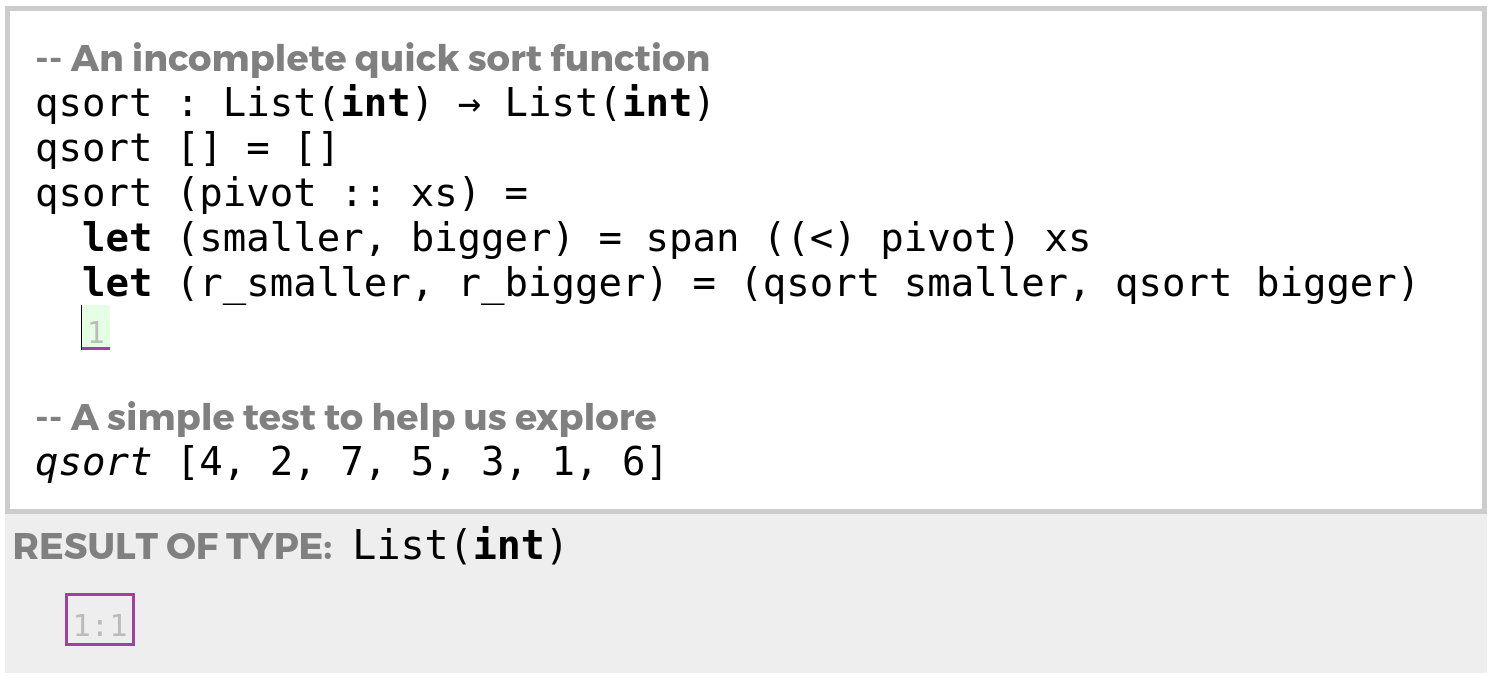
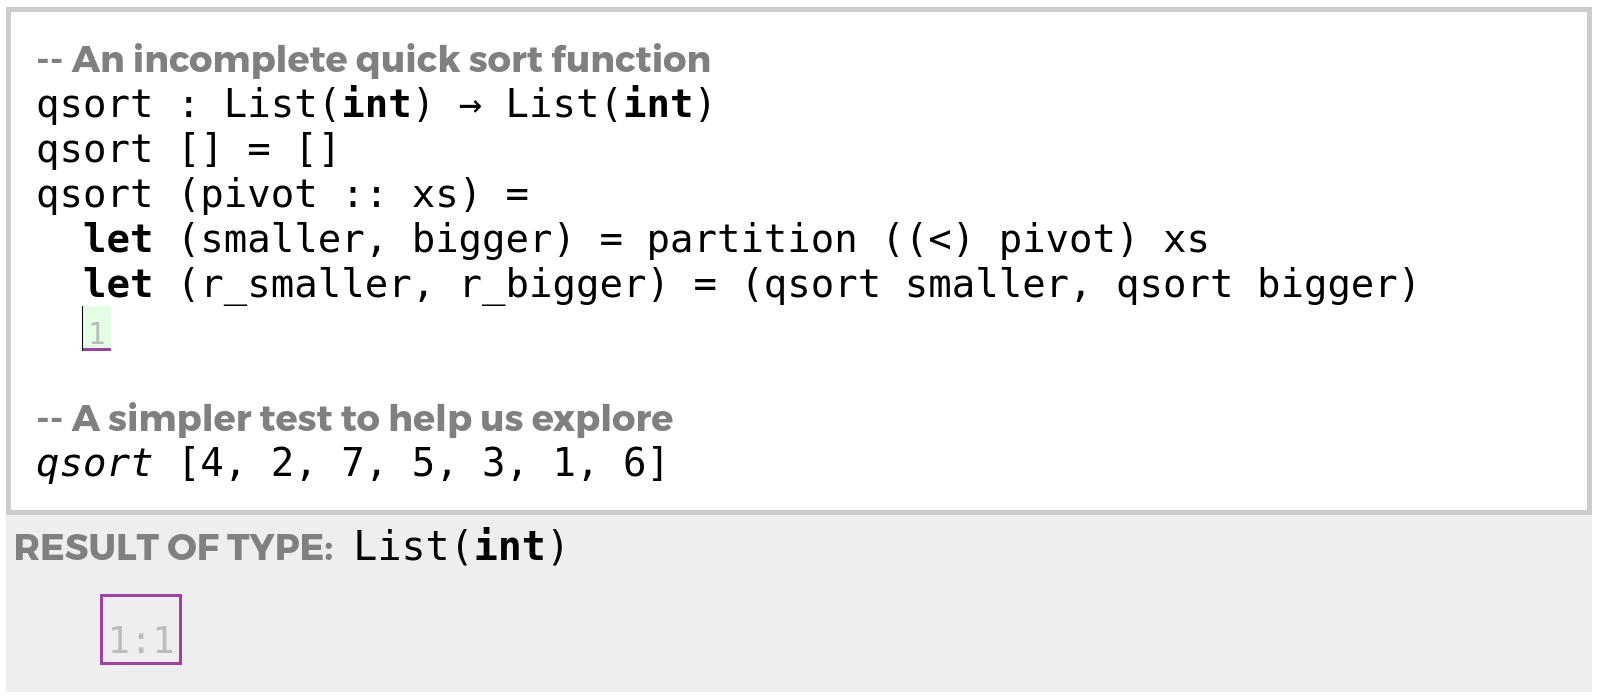
changed span to partition and added mockup html files

Changed region(s): [[0.0, 0.0619, 0.9551, 0.5265], [0.0, 0.0, 1.0, 0.9602]]

diff --git a/mockups/hazelnut-live-example-1.html b/mockups/hazelnut-live-example-1.html
@@ -1,0 +1,26 @@
+<html lang="en"><head>
+    <meta charset="utf-8">
+    <meta http-equiv="X-UA-Compatible" content="IE=edge">
+    <meta name="viewport" content="width=device-width, initial-scale=1, shrink-to-fit=no">
+    <!-- The above 3 meta tags *must* come first in the head; any other head content must come *after* these tags -->
+
+    <title>Hazel</title>
+
+    <link rel="stylesheet" href="file:///home/cyrus/Drive/projects/hazelnut/hazel/src/www/style.css">
+  </head>
+
+  <body spellcheck="false">
+    <div class="container" id="container"><div id="root"><div class="top-bar"><span class="logo-text">Hazel</span></div><div class="main-area"><div class="sidebar leftbar"><div class="panel action-panel"><div class="titlebar">Edit Actions</div><div class="sub-panel sub-panel-default"><div class="sub-panel-title">General</div><div class="sub-panel-body"><div class="action-panel-entry action-enabled"><div class="action-label">parenthesize</div><div class="keyboard-shortcut">(</div></div><div class="action-panel-entry action-enabled"><div class="action-label">backspace</div><div class="keyboard-shortcut">Backspace</div></div><div class="action-panel-entry action-disabled"><div class="action-label">delete</div><div class="keyboard-shortcut">Delete</div></div></div></div><div class="sub-panel sub-panel-default"><div class="sub-panel-title">Expression Construction</div><div class="sub-panel-body"><div class="action-panel-entry action-enabled"><div class="action-label action-label-with-input"><div class="action-label-text"><div><span><span class="code kw">let</span></span></div></div><div class="action-input"><input id="let_input" class="form-control" placeholder="enter var"></div><div class="action-validity-indicator"><div class="invalid-mark">✗</div></div></div><div class="keyboard-shortcut">=</div></div><div class="action-panel-entry action-enabled"><div class="action-label action-label-with-input"><div class="action-label-text">var</div><div class="action-input"><input id="var_input" class="form-control" placeholder="enter var"></div><div class="action-validity-indicator"><div class="invalid-mark">✗</div></div></div><div class="keyboard-shortcut">v</div></div><div class="action-panel-entry action-enabled"><div class="action-label action-label-with-input"><div class="action-label-text"><span><span class="code kw">λ</span></span></div><div class="action-input"><input id="lam_input" class="form-control" placeholder="enter var"></div><div class="action-validity-indicator"><div class="invalid-mark">✗</div></div></div><div class="keyboard-shortcut">\</div></div><div class="action-panel-entry action-enabled"><div class="action-label">insert application operator</div><div class="keyboard-shortcut">Space</div></div><div class="action-panel-entry action-enabled"><div class="action-label action-label-with-input"><div class="action-label-text">number</div><div class="action-input"><input id="lit_input" class="form-control" placeholder="enter number"></div><div class="action-validity-indicator"><div class="invalid-mark">✗</div></div></div><div class="keyboard-shortcut">#</div></div><div class="action-panel-entry action-enabled"><div class="action-label"><span>insert <span class="code op">+</span> operator</span></div><div class="keyboard-shortcut">+</div></div><div class="action-panel-entry action-enabled"><div class="action-label"><span>insert <span class="code op">*</span> operator</span></div><div class="keyboard-shortcut">*</div></div><div class="action-panel-entry action-enabled"><div class="action-label">left injection</div><div class="keyboard-shortcut">L</div></div><div class="action-panel-entry action-enabled"><div class="action-label">right injection</div><div class="keyboard-shortcut">R</div></div><div class="action-panel-entry action-enabled"><div class="action-label action-label-with-two-inputs"><div class="action-label-text"><span><span class="code kw">case</span></span></div><div class="action-input action-input-1"><input id="case_input_1" class="form-control" placeholder="enter var1"></div><div class="action-input action-input-2"><input id="case_input_2" class="form-control" placeholder="enter var2"></div><div class="action-validity-indicator"><div class="invalid-mark">✗</div></div></div><div class="keyboard-shortcut">c</div></div><div class="action-panel-entry action-enabled"><div class="action-label">type ascription</div><div class="keyboard-shortcut">:</div></div></div></div><div class="sub-panel sub-panel-default"><div class="sub-panel-title">Type Construction</div><div class="sub-panel-body"><div class="action-panel-entry action-disabled"><div class="action-label"><span><span class="code kw">num</span> type</span></div><div class="keyboard-shortcut">n</div></div><div class="action-panel-entry action-disabled"><div class="action-label"><span>insert <span class="code op">→</span> type operator</span></div><div class="keyboard-shortcut">&gt;</div></div><div class="action-panel-entry action-disabled"><div class="action-label"><span>insert <span class="code op">|</span> type operator</span></div><div class="keyboard-shortcut">|</div></div></div></div></div></div><div class="page-area"><div class="page"><div>Grading notebook for CS 150</div><div id="pp_view" class="ModelExp"><div contenteditable="true"><div><span class="SDoc"><span class="Let"><span class="SText kw"><span style="color: rgb(128, 128, 128);font-family: Montserrat, sans-serif;font-size: 14.6667px;text-transform: none;">-- Define a type for student records</span></span></span></span></div><span class="SDoc"><span id="viewpath_" class="Let"><span class="SText kw">type</span><span class="SText space"> </span><span class="SText var" style="font-style: normal;">Student</span><span class="SText space"> </span><span class="SText op">=</span><span class="SText space">&nbsp;{ <u>name</u>:&nbsp;</span><span id="viewpath__0" class="Asc"><span class="SText space"><span id="viewpath__0" class="Asc"><span id="viewpath__0_1" class="Num"><span class="SText kw">string</span></span></span>,&nbsp;<span class="SText space"><u>hw</u>:&nbsp;</span><span id="viewpath__0" class="Asc"><span class="SText space"><span id="viewpath__0" class="Asc"><span id="viewpath__0_1" class="Num"><span class="SText kw">float</span></span></span>,&nbsp;</span></span><span class="SText space"><u>midterm</u>:&nbsp;</span><span id="viewpath__0" class="Asc"><span class="SText space"><span id="viewpath__0" class="Asc"><span id="viewpath__0_1" class="Num"><span class="SText kw">float</span></span></span>,&nbsp;</span></span><span class="SText space"><u>final</u>:&nbsp;</span><span id="viewpath__0" class="Asc"><span class="SText space"><span id="viewpath__0" class="Asc"><span id="viewpath__0_1" class="Num"><span class="SText kw">float&nbsp;</span></span></span>}</span></span></span></span><br><span class="SIndentation"></span><span id="viewpath__1" class="Let"><span class="SText kw"><br><br></span></span></span></span><div><span class="SDoc"><span class="Let"><span class="Let"><span class="SText kw"><span style="color: rgb(128, 128, 128);font-family: Montserrat, sans-serif;font-size: 14.6667px;text-transform: none;">-- Create a list of student records</span></span></span></span></span></div><div><span class="SDoc"><span class="Let"><span class="Let"><span class="SText var">students</span><span class="SText space">&nbsp;</span><span class="SText op"><span class="SText op" style="font-size: 15.6px;">:</span><span class="SText space" style="font-size: 15.6px;">&nbsp;</span><span id="viewpath__1_0_1" class="Num" style="font-size: 15.6px;"><span class="SText kw"><span style="font-weight: normal;">List(Student)</span></span></span></span></span></span></span></div><div><span style="font-family: monospace; font-size: 15.6px; font-style: italic;">students</span><font face="monospace"><span style="font-size: 15.6px;"><b>&nbsp;</b>=&nbsp;<br></span></font><div><span class="SDoc"><span class="Let"><span class="Let">&nbsp; [ { <u>name</u>: <b style="
+    color: mediumpurple;
+    font-weight: normal;
+">"Alice"</b>, <u>hw</u>: 88.0, <u>midterm</u>: 89.0, <u>final</u>: 87.0 }</span></span></span></div><div><span class="SDoc"><span class="Let"><span class="Let">&nbsp; ,&nbsp;<span style="font-size: 15.6px;">{&nbsp;</span><u style="font-size: 15.6px;">name</u><span style="font-size: 15.6px;">:&nbsp;</span><span style="font-size: 15.6px; color: mediumpurple;">"Bob"</span><span style="font-size: 15.6px;">,&nbsp;&nbsp;&nbsp;</span><u style="font-size: 15.6px;">hw</u><span style="font-size: 15.6px;">: 76.0,&nbsp;</span><u style="font-size: 15.6px;">midterm</u><span style="font-size: 15.6px;">: 93.0,&nbsp;</span><u style="font-size: 15.6px;">final</u><span style="font-size: 15.6px;">: 95.0 }</span></span></span></span></div><div><span class="SDoc"><span class="Let"><span class="Let">&nbsp; ,&nbsp;<span style="font-size: 15.6px;">{&nbsp;</span><u style="font-size: 15.6px;">name</u><span style="font-size: 15.6px;">:&nbsp;</span><span style="font-size: 15.6px; color: mediumpurple;">"Chris"</span><span style="font-size: 15.6px;">,&nbsp;</span><u style="font-size: 15.6px;">hw</u><span style="font-size: 15.6px;">: 93.0,&nbsp;</span><u style="font-size: 15.6px;">midterm</u><span style="font-size: 15.6px;">: 79.0,&nbsp;</span><u style="font-size: 15.6px;">final</u><span style="font-size: 15.6px;">: 84.0 } ]</span></span></span></span></div><div><font face="monospace"><span style="font-size: 15.6px;">qsort : List(<b>int</b>)&nbsp;</span></font><i style="font-family: monospace; font-size: 15.6px;">→&nbsp;</i><span style="font-family: monospace; font-size: 15.6px;">List(<b>int</b>)</span></div><div><font face="monospace"><span style="font-size: 15.6px;">qsort [] = []</span></font></div><div><font face="monospace"><span style="font-size: 15.6px;">qsort (pivot :: xs) =&nbsp;</span></font></div><div><font face="monospace"><span style="font-size: 15.6px;">&nbsp; <b>let </b>(smaller, bigger) = span ((&lt;) pivot) xs</span></font></div><div><font face="monospace"><span style="font-size: 15.6px;">&nbsp; <b>let </b>(r_smaller, r_bigger) = (qsort smaller, qsort bigger)</span></font></div><div><i style="font-family: monospace; font-size: 15.6px;">&nbsp;&nbsp;</i><span id="viewpath__1_1_1_1" class="EmptyHole cursor" style="font-family: monospace; font-size: 15.6px;"><span class="SText hole-before-1">&#8203;&#8203;</span><span class="SText hole-before-2">&#8203;</span><span class="SText holeName" style="font-size: 11.7px;">1</span><span class="SText hole-after-1">&#8203;</span><span class="SText hole-after-2">&#8203;</span></span><font face="monospace"><span style="font-size: 15.6px;">&nbsp;&nbsp;</span></font></div><div><span class="SDoc"><span class="Let"><span class="Let"><span style="font-size: 15.6px;"><br></span></span></span></span></div><div><span class="SDoc"><span class="Let"><span class="Let"><span style="color: rgb(128, 128, 128);font-family: Montserrat, sans-serif;font-size: 14.6667px;text-transform: none;font-weight: 700;">-- Define an incomplete function for computing the weighted average</span></span></span></span></div><div><span class="SDoc"><span class="Let"><span class="Let"><span style="font-style: italic; font-size: 15.6px;">weighted_average : </span><span style="font-size: 15.6px;">Student</span><span style="font-style: italic; font-size: 15.6px;"> </span><i>→</i><span style="font-size: 15.6px;"><i>&nbsp;</i><b style="">float</b></span></span></span></span></div><div><span class="SDoc"><span class="Let"><span class="Let"><span style="font-size: 15.6px;"><span style="font-size: 15.6px;"><i>weighted_average </i>{<i> name</i>,<i> hw</i>,<i> midterm</i>,<i> final </i>} =<i>&nbsp;</i></span></span></span></span></span></div><div><span class="SDoc"><span class="Let"><span class="Let"><span style="font-size: 15.6px;"><span style="font-size: 15.6px;"><i>&nbsp; </i>30.0*<i>hw</i> + <span id="viewpath__1_1_1_1" class="EmptyHole cursor"><span class="SText hole-before-1">&#8203;&#8203;</span><span class="SText hole-before-2">&#8203;</span><span class="SText holeName">1</span><span class="SText hole-after-1">&#8203;</span><span class="SText hole-after-2">&#8203;</span></span></span></span></span></span></span></div><span class="SIndentation" style="background-color: rgb(255, 255, 255); font-family: monospace; font-size: 15.6px;"></span><br><div><span class="SDoc"><span class="Let"><span class="Let"><br></span></span></span></div><div><span class="SDoc"><span class="Let"><span class="Let"><span style="color: rgb(128, 128, 128);font-family: Montserrat, sans-serif;font-size: 14.6667px;font-weight: 700;text-transform: none;">-- Map that function over the list of student records to determine the students' average grades</span></span></span></span></div><div><span class="SDoc"><span class="Let"><span class="Let"><i>map</i> <i>weighted_average</i> <i>students</i><br></span></span><span class="SEmpty"></span></span></div></div></div></div><div class="cell-status" style="
+    padding-bottom: 8px;
+"><div class="type-indicator"><div class="type-label">Result of type: </div><div class="htype-view"><div><span class="SDoc">List(<b>float</b>)</span></div></div></div></div><div class="result-view" contenteditable="true"><div><span class="SDoc">[ 2640.0 + <span id="result-exppath_" class="EmptyHole hole-instance hole-instance-11-0 path-instance selected-instance"><span class="SText holeName">1:1</span></span><span class="SEmpty"></span>, 2280.0 + <span id="result-exppath_" class="EmptyHole hole-instance hole-instance-11-0"><span class="SText holeName">1:2</span></span><span class="SEmpty"></span>, 2790.0 + <span id="result-exppath_" class="EmptyHole hole-instance hole-instance-11-0"><span class="SText holeName">1:3</span></span><span class="SEmpty"></span> ]</span></div></div></div></div><div class="sidebar rightbar"><div><div class="panel cursor-inspector cursor-OK"><div class="indicator expected-indicator"><div class="titlebar">Expecting an expression of </div><div class="infobar special-msg-bar">any type</div></div><div class="indicator got-indicator"><div class="titlebar">Got type</div><div class="infobar typebar"><span class="SDoc"><span id="gotpath_" class="Hole"><span class="SText hole-before-1">&#8203;&#8203;</span><span class="SText hole-before-2">&#8203;</span><span class="SText holeName">?</span><span class="SText hole-after-1">&#8203;</span><span class="SText hole-after-2">&#8203;</span></span><span class="SEmpty"></span></span></div></div></div></div><div class="panel context-inspector-panel"><div><div class="titlebar">context</div><div class="context-inspector-body"><div class="the-context" contenteditable="true"><div class="context-entry"><div class="static-info"><div class="code"><span class="var">name</span> : <span class="SDoc"><span id="context-namepath_" class="Num"><span class="SText kw">string</span></span><span class="SEmpty"></span></span></div></div><div class="dynamic-info"><div class="code"><span class="SDoc"><span id="context-namepath_" class="NumLit"><span class="SText number" style="
+    color: mediumpurple;
+">"Chris"</span></span><span class="SEmpty"></span></span></div></div></div><div class="context-entry"><div class="static-info"><div class="code"><span class="var">hw</span> :&nbsp;<span style="font-weight: 700;">float</span></div></div><div class="dynamic-info"><div class="code">93.0</div></div></div><div class="context-entry"><div class="static-info"><div class="code"><span class="var">midterm</span> :&nbsp;<span style="font-weight: 700;">float</span></div></div><div class="dynamic-info"><div class="code">79.0</div></div></div><div class="context-entry"><div class="static-info"><div class="code"><span class="var">final</span> :&nbsp;<span style="font-weight: 700;">float</span></div></div><div class="dynamic-info"><div class="code">84.0</div></div></div></div><div class="the-path-viewer" style="
+    position: relative;
+    top: -244px;
+"><div class="titlebar">Closure above observed at </div><div class="path-summary"><div class="instance-info"><div><div class="hii-summary-inst"><span class="SDoc"><span id="hii-summarypath_" class="EmptyHole hole-instance hole-instance-11-0 path-instance selected-instance"><span class="SText holeName">1:3</span></span><span class="SEmpty"></span></span></div> = hole <span class="hole-name-normal-txt">1</span> instance <span class="inst-number-normal-txt">3</span> of <span class="inst-number-normal-txt">3</span></div></div><div class="instance-controls"><div class="prev-instance" title="Previous instance (q)">◂</div><div class="next-instance noselect no-next" title="Next instance (w)">▸</div></div></div><div class="path-view-with-path"><div class="titlebar">which is in the result</div><div class="path-area-parent"><div class="special-msg"><div>immediately</div></div></div></div></div></div></div></div></div></div></div></div>
+  
+
+</body></html>

diff --git a/mockups/qsort-code.html b/mockups/qsort-code.html
@@ -1,0 +1,21 @@
+<html lang="en"><head>
+    <meta charset="utf-8">
+    <meta http-equiv="X-UA-Compatible" content="IE=edge">
+    <meta name="viewport" content="width=device-width, initial-scale=1, shrink-to-fit=no">
+    <!-- The above 3 meta tags *must* come first in the head; any other head content must come *after* these tags -->
+
+    <title>Hazel</title>
+
+    <link rel="stylesheet" href="file:///home/cyrus/Drive/projects/hazelnut/hazel/src/www/style.css">
+  </head>
+
+  <body spellcheck="false">
+    <div class="container" id="container"><div id="root"><div class="top-bar"><span class="logo-text">Hazel</span></div><div class="main-area"><div class="sidebar leftbar"><div class="panel action-panel"><div class="titlebar">Edit Actions</div><div class="sub-panel sub-panel-default"><div class="sub-panel-title">General</div><div class="sub-panel-body"><div class="action-panel-entry action-enabled"><div class="action-label">parenthesize</div><div class="keyboard-shortcut">(</div></div><div class="action-panel-entry action-enabled"><div class="action-label">backspace</div><div class="keyboard-shortcut">Backspace</div></div><div class="action-panel-entry action-disabled"><div class="action-label">delete</div><div class="keyboard-shortcut">Delete</div></div></div></div><div class="sub-panel sub-panel-default"><div class="sub-panel-title">Expression Construction</div><div class="sub-panel-body"><div class="action-panel-entry action-enabled"><div class="action-label action-label-with-input"><div class="action-label-text"><div><span><span class="code kw">let</span></span></div></div><div class="action-input"><input id="let_input" class="form-control" placeholder="enter var"></div><div class="action-validity-indicator"><div class="invalid-mark">✗</div></div></div><div class="keyboard-shortcut">=</div></div><div class="action-panel-entry action-enabled"><div class="action-label action-label-with-input"><div class="action-label-text">var</div><div class="action-input"><input id="var_input" class="form-control" placeholder="enter var"></div><div class="action-validity-indicator"><div class="invalid-mark">✗</div></div></div><div class="keyboard-shortcut">v</div></div><div class="action-panel-entry action-enabled"><div class="action-label action-label-with-input"><div class="action-label-text"><span><span class="code kw">λ</span></span></div><div class="action-input"><input id="lam_input" class="form-control" placeholder="enter var"></div><div class="action-validity-indicator"><div class="invalid-mark">✗</div></div></div><div class="keyboard-shortcut">\</div></div><div class="action-panel-entry action-enabled"><div class="action-label">insert application operator</div><div class="keyboard-shortcut">Space</div></div><div class="action-panel-entry action-enabled"><div class="action-label action-label-with-input"><div class="action-label-text">number</div><div class="action-input"><input id="lit_input" class="form-control" placeholder="enter number"></div><div class="action-validity-indicator"><div class="invalid-mark">✗</div></div></div><div class="keyboard-shortcut">#</div></div><div class="action-panel-entry action-enabled"><div class="action-label"><span>insert <span class="code op">+</span> operator</span></div><div class="keyboard-shortcut">+</div></div><div class="action-panel-entry action-enabled"><div class="action-label"><span>insert <span class="code op">*</span> operator</span></div><div class="keyboard-shortcut">*</div></div><div class="action-panel-entry action-enabled"><div class="action-label">left injection</div><div class="keyboard-shortcut">L</div></div><div class="action-panel-entry action-enabled"><div class="action-label">right injection</div><div class="keyboard-shortcut">R</div></div><div class="action-panel-entry action-enabled"><div class="action-label action-label-with-two-inputs"><div class="action-label-text"><span><span class="code kw">case</span></span></div><div class="action-input action-input-1"><input id="case_input_1" class="form-control" placeholder="enter var1"></div><div class="action-input action-input-2"><input id="case_input_2" class="form-control" placeholder="enter var2"></div><div class="action-validity-indicator"><div class="invalid-mark">✗</div></div></div><div class="keyboard-shortcut">c</div></div><div class="action-panel-entry action-enabled"><div class="action-label">type ascription</div><div class="keyboard-shortcut">:</div></div></div></div><div class="sub-panel sub-panel-default"><div class="sub-panel-title">Type Construction</div><div class="sub-panel-body"><div class="action-panel-entry action-disabled"><div class="action-label"><span><span class="code kw">num</span> type</span></div><div class="keyboard-shortcut">n</div></div><div class="action-panel-entry action-disabled"><div class="action-label"><span>insert <span class="code op">→</span> type operator</span></div><div class="keyboard-shortcut">&gt;</div></div><div class="action-panel-entry action-disabled"><div class="action-label"><span>insert <span class="code op">|</span> type operator</span></div><div class="keyboard-shortcut">|</div></div></div></div></div></div><div class="page-area"><div class="page"><div>Grading notebook for CS 150</div><div id="pp_view" class="ModelExp"><div contenteditable="true"><div><span style="color: rgb(128, 128, 128); font-size: 14.6667px; font-weight: bold;">-- An incomplete quick sort function</span></div><div><font face="monospace">qsort : List(<b>int</b>)&nbsp;</font><i style="font-family: monospace; font-size: 15.6px;">→&nbsp;</i><span style="font-family: monospace; font-size: 15.6px;">List(<b>int</b>)</span></div><div><div><font face="monospace"><span style="font-size: 15.6px;">qsort [] = []</span></font></div><div><font face="monospace"><span style="font-size: 15.6px;">qsort (pivot :: xs) =&nbsp;</span></font></div><div><font face="monospace"><span style="font-size: 15.6px;">&nbsp; <b>let </b>(smaller, bigger) = partition ((&lt;) pivot) xs</span></font></div><div><font face="monospace"><span style="font-size: 15.6px;">&nbsp; <b>let </b>(r_smaller, r_bigger) = (qsort smaller, qsort bigger)</span></font></div><div><i style="font-family: monospace; font-size: 15.6px;">&nbsp;&nbsp;</i><span id="viewpath__1_1_1_1" class="EmptyHole cursor" style="font-family: monospace; font-size: 15.6px;"><span class="SText hole-before-1">&#8203;&#8203;</span><span class="SText hole-before-2">&#8203;</span><span class="SText holeName" style="font-size: 11.7px; margin-bottom: -3px;">1</span><span class="SText hole-after-1">&#8203;</span><span class="SText hole-after-2">&#8203;</span></span></div><div><span class="SDoc"><span class="Let"><span class="Let"><span style="font-size: 15.6px;"><br></span></span></span></span></div><div><span style="color: rgb(128, 128, 128); font-size: 14.6667px; font-weight: 700;">-- A simpler test to help us explore</span></div><div><span class="SDoc"><span class="Let"><span class="Let"><i>qsort </i>[4, 2, 7, 5, 3, 1, 6]</span></span><span class="SEmpty"></span></span></div></div></div></div><div class="cell-status" style="
+    padding-bottom: 8px;
+"><div class="type-indicator"><div class="type-label">Result of type: </div><div class="htype-view"><div><span class="SDoc">List(<b>int</b>)</span></div></div></div></div><div class="result-view" contenteditable="true"><span style="font-family: monospace; font-size: 22.75px;">&nbsp;</span><span id="result-exppath_" class="EmptyHole hole-instance hole-instance-11-0 path-instance selected-instance" style="font-family: monospace; font-size: 22.75px;"><span class="SText holeName" style="font-size: 14.7875px;margin-bottom: -3px;">1:1</span></span></div></div></div><div class="sidebar rightbar"><div><div class="panel cursor-inspector cursor-OK"><div class="indicator expected-indicator"><div class="titlebar">Expecting an expression of </div><div class="infobar special-msg-bar">any type</div></div><div class="indicator got-indicator"><div class="titlebar">Got type</div><div class="infobar typebar"><span class="SDoc"><span id="gotpath_" class="Hole"><span class="SText hole-before-1">&#8203;&#8203;</span><span class="SText hole-before-2">&#8203;</span><span class="SText holeName">?</span><span class="SText hole-after-1">&#8203;</span><span class="SText hole-after-2">&#8203;</span></span><span class="SEmpty"></span></span></div></div></div></div><div class="panel context-inspector-panel"><div><div class="titlebar">context</div><div class="context-inspector-body"><div class="the-context" contenteditable="true"><div class="context-entry"><div class="static-info"><div class="code"><i>qsort</i>&nbsp;: List(<b>int</b>) → List(<span style="font-weight: 700;">int</span>)</div></div><div class="dynamic-info"><div class="code">&lt;recursive function&gt;</div></div></div><div class="context-entry"><div class="static-info"><div class="code"><i>pivot</i> : <span class="SDoc"><span id="context-namepath_" class="Num"><span class="SText kw">int</span></span><span class="SEmpty"></span></span></div></div><div class="dynamic-info"><div class="code">4</div></div></div><div class="context-entry"><div class="static-info"><div class="code"><span class="var">xs</span> : List(<span style="font-weight: 700;">int</span>)</div></div><div class="dynamic-info"><div class="code">[2, 7, 5, 3, 1, 6]</div></div></div><div class="context-entry"><div class="static-info"><div class="code"><span class="var">smaller</span> : List(<span style="font-weight: 700;">int</span>)</div></div><div class="dynamic-info"><div class="code">[2, 3, 1]</div></div></div><div class="context-entry"><div class="static-info"><div class="code"><span class="var">bigger</span> : List(<span style="font-weight: 700;">int</span>)</div></div><div class="dynamic-info"><div class="code">[7, 5, 6]</div></div></div><div class="context-entry"><div class="static-info"><div class="code"><span class="var">r_smaller</span> : List(<span style="font-weight: 700;">int</span>)</div></div><div class="dynamic-info"><div class="code"><span id="result-exppath_" class="EmptyHole hole-instance hole-instance-11-0"><span class="SText holeName">1:2</span></span></div></div></div><div class="context-entry"><div class="static-info"><div class="code"><span class="var">r_bigger</span> : List(<span style="font-weight: 700;">int</span>)</div></div><div class="dynamic-info"><div class="code"><span id="result-exppath_" class="EmptyHole hole-instance hole-instance-11-0"><span class="SText holeName">1:3</span></span></div></div></div></div><div class="the-path-viewer" style="
+    position: relative;
+    top: 0;
+"><div class="titlebar">Closure above observed at </div><div class="path-summary"><div class="instance-info"><div><div class="hii-summary-inst"><span class="SDoc"><span id="hii-summarypath_" class="EmptyHole hole-instance hole-instance-11-0 path-instance selected-instance"><span class="SText holeName">1:3</span></span><span class="SEmpty"></span></span></div> = hole <span class="hole-name-normal-txt">1</span> instance <span class="inst-number-normal-txt">3</span> of <span class="inst-number-normal-txt">3</span></div></div><div class="instance-controls"><div class="prev-instance" title="Previous instance (q)">◂</div><div class="next-instance noselect no-next" title="Next instance (w)">▸</div></div></div><div class="path-view-with-path"><div class="titlebar">which is in the result</div><div class="path-area-parent"><div class="special-msg"><div>immediately</div></div></div></div></div></div></div></div></div></div></div></div>
+  
+
+</body></html>

diff --git a/mockups/qsort-type-error.html b/mockups/qsort-type-error.html
@@ -1,0 +1,21 @@
+<html lang="en"><head>
+    <meta charset="utf-8">
+    <meta http-equiv="X-UA-Compatible" content="IE=edge">
+    <meta name="viewport" content="width=device-width, initial-scale=1, shrink-to-fit=no">
+    <!-- The above 3 meta tags *must* come first in the head; any other head content must come *after* these tags -->
+
+    <title>Hazel</title>
+
+    <link rel="stylesheet" href="file:///home/cyrus/Drive/projects/hazelnut/hazel/src/www/style.css">
+  </head>
+
+  <body spellcheck="false">
+    <div class="container" id="container"><div id="root"><div class="top-bar"><span class="logo-text">Hazel</span></div><div class="main-area"><div class="sidebar leftbar"><div class="panel action-panel"><div class="titlebar">Edit Actions</div><div class="sub-panel sub-panel-default"><div class="sub-panel-title">General</div><div class="sub-panel-body"><div class="action-panel-entry action-enabled"><div class="action-label">parenthesize</div><div class="keyboard-shortcut">(</div></div><div class="action-panel-entry action-enabled"><div class="action-label">backspace</div><div class="keyboard-shortcut">Backspace</div></div><div class="action-panel-entry action-disabled"><div class="action-label">delete</div><div class="keyboard-shortcut">Delete</div></div></div></div><div class="sub-panel sub-panel-default"><div class="sub-panel-title">Expression Construction</div><div class="sub-panel-body"><div class="action-panel-entry action-enabled"><div class="action-label action-label-with-input"><div class="action-label-text"><div><span><span class="code kw">let</span></span></div></div><div class="action-input"><input id="let_input" class="form-control" placeholder="enter var"></div><div class="action-validity-indicator"><div class="invalid-mark">✗</div></div></div><div class="keyboard-shortcut">=</div></div><div class="action-panel-entry action-enabled"><div class="action-label action-label-with-input"><div class="action-label-text">var</div><div class="action-input"><input id="var_input" class="form-control" placeholder="enter var"></div><div class="action-validity-indicator"><div class="invalid-mark">✗</div></div></div><div class="keyboard-shortcut">v</div></div><div class="action-panel-entry action-enabled"><div class="action-label action-label-with-input"><div class="action-label-text"><span><span class="code kw">λ</span></span></div><div class="action-input"><input id="lam_input" class="form-control" placeholder="enter var"></div><div class="action-validity-indicator"><div class="invalid-mark">✗</div></div></div><div class="keyboard-shortcut">\</div></div><div class="action-panel-entry action-enabled"><div class="action-label">insert application operator</div><div class="keyboard-shortcut">Space</div></div><div class="action-panel-entry action-enabled"><div class="action-label action-label-with-input"><div class="action-label-text">number</div><div class="action-input"><input id="lit_input" class="form-control" placeholder="enter number"></div><div class="action-validity-indicator"><div class="invalid-mark">✗</div></div></div><div class="keyboard-shortcut">#</div></div><div class="action-panel-entry action-enabled"><div class="action-label"><span>insert <span class="code op">+</span> operator</span></div><div class="keyboard-shortcut">+</div></div><div class="action-panel-entry action-enabled"><div class="action-label"><span>insert <span class="code op">*</span> operator</span></div><div class="keyboard-shortcut">*</div></div><div class="action-panel-entry action-enabled"><div class="action-label">left injection</div><div class="keyboard-shortcut">L</div></div><div class="action-panel-entry action-enabled"><div class="action-label">right injection</div><div class="keyboard-shortcut">R</div></div><div class="action-panel-entry action-enabled"><div class="action-label action-label-with-two-inputs"><div class="action-label-text"><span><span class="code kw">case</span></span></div><div class="action-input action-input-1"><input id="case_input_1" class="form-control" placeholder="enter var1"></div><div class="action-input action-input-2"><input id="case_input_2" class="form-control" placeholder="enter var2"></div><div class="action-validity-indicator"><div class="invalid-mark">✗</div></div></div><div class="keyboard-shortcut">c</div></div><div class="action-panel-entry action-enabled"><div class="action-label">type ascription</div><div class="keyboard-shortcut">:</div></div></div></div><div class="sub-panel sub-panel-default"><div class="sub-panel-title">Type Construction</div><div class="sub-panel-body"><div class="action-panel-entry action-disabled"><div class="action-label"><span><span class="code kw">num</span> type</span></div><div class="keyboard-shortcut">n</div></div><div class="action-panel-entry action-disabled"><div class="action-label"><span>insert <span class="code op">→</span> type operator</span></div><div class="keyboard-shortcut">&gt;</div></div><div class="action-panel-entry action-disabled"><div class="action-label"><span>insert <span class="code op">|</span> type operator</span></div><div class="keyboard-shortcut">|</div></div></div></div></div></div><div class="page-area"><div class="page"><div>Grading notebook for CS 150</div><div id="pp_view" class="ModelExp"><div contenteditable="true"><div><span style="color: rgb(128, 128, 128); font-size: 14.6667px; font-weight: bold;">-- A slightly less incomplete quick sort function, with a type error</span></div><div><font face="monospace">qsort : List(<b>int</b>)&nbsp;</font><i style="font-family: monospace; font-size: 15.6px;">→&nbsp;</i><span style="font-family: monospace; font-size: 15.6px;">List(<b>int</b>)</span></div><div><div><font face="monospace"><span style="font-size: 15.6px;">qsort [] = []</span></font></div><div><font face="monospace"><span style="font-size: 15.6px;">qsort (pivot :: xs) =&nbsp;</span></font></div><div><font face="monospace"><span style="font-size: 15.6px;">&nbsp; <b>let </b>(smaller, bigger) = partition ((&lt;) pivot) xs</span></font></div><div><font face="monospace"><span style="font-size: 15.6px;">&nbsp; <b>let </b>(r_smaller, r_bigger) = (qsort smaller, qsort bigger)</span></font></div><div><i style="font-family: monospace; font-size: 15.6px;">&nbsp;&nbsp;</i><i style="font-family: monospace; font-size: 15.6px;">r_smaller @&nbsp;<span class="in_err_hole">pivot</span>&nbsp;@ r_bigger</i><span id="viewpath__1_1_1_1" class="EmptyHole cursor" style="font-family: monospace; font-size: 15.6px;"><span class="SText hole-after-2">&#8203;</span></span></div><div><span class="SDoc"><span class="Let"><span class="Let"><span style="font-size: 15.6px;"><br></span></span></span></span></div><div><span style="color: rgb(128, 128, 128); font-size: 14.6667px; font-weight: 700;">-- A simpler test than before for concision</span></div><div><span class="SDoc"><span class="Let"><span class="Let"><i>qsort </i>[3, 4, 2]</span></span><span class="SEmpty"></span></span></div></div></div></div><div class="cell-status" style="
+    padding-bottom: 8px;
+"><div class="type-indicator"><div class="type-label">Result of type: </div><div class="htype-view"><div><span class="SDoc">List(<b>int</b>)</span></div></div></div></div><div class="result-view" contenteditable="true"><div><span class="SDoc">([] @ <span class="in_err_hole">2</span> @ []) @ <span class="in_err_hole">3</span> @ ([] @ <span class="in_err_hole">4</span> @ [])</span></div></div></div></div><div class="sidebar rightbar"><div><div class="panel cursor-inspector cursor-OK"><div class="indicator expected-indicator"><div class="titlebar">Expecting an expression of </div><div class="infobar special-msg-bar">any type</div></div><div class="indicator got-indicator"><div class="titlebar">Got type</div><div class="infobar typebar"><span class="SDoc"><span id="gotpath_" class="Hole"><span class="SText hole-before-1">&#8203;&#8203;</span><span class="SText hole-before-2">&#8203;</span><span class="SText holeName">?</span><span class="SText hole-after-1">&#8203;</span><span class="SText hole-after-2">&#8203;</span></span><span class="SEmpty"></span></span></div></div></div></div><div class="panel context-inspector-panel"><div><div class="titlebar">context</div><div class="context-inspector-body"><div class="the-context" contenteditable="true"><div class="context-entry"><div class="static-info"><div class="code"><i>qsort</i>&nbsp;: List(<b>int</b>) → List(<span style="font-weight: 700;">int</span>)</div></div><div class="dynamic-info"><div class="code">&lt;recursive function&gt;</div></div></div><div class="context-entry"><div class="static-info"><div class="code"><i>pivot</i> : <span class="SDoc"><span id="context-namepath_" class="Num"><span class="SText kw">int</span></span><span class="SEmpty"></span></span></div></div><div class="dynamic-info"><div class="code">4</div></div></div><div class="context-entry"><div class="static-info"><div class="code"><span class="var">xs</span> : List(<span style="font-weight: 700;">int</span>)</div></div><div class="dynamic-info"><div class="code">[2, 7, 5, 3, 1, 6]</div></div></div><div class="context-entry"><div class="static-info"><div class="code"><span class="var">smaller</span> : List(<span style="font-weight: 700;">int</span>)</div></div><div class="dynamic-info"><div class="code">[2, 3, 1]</div></div></div><div class="context-entry"><div class="static-info"><div class="code"><span class="var">bigger</span> : List(<span style="font-weight: 700;">int</span>)</div></div><div class="dynamic-info"><div class="code">[7, 5, 6]</div></div></div><div class="context-entry"><div class="static-info"><div class="code"><span class="var">r_smaller</span> : List(<span style="font-weight: 700;">int</span>)</div></div><div class="dynamic-info"><div class="code"><span id="result-exppath_" class="EmptyHole hole-instance hole-instance-11-0"><span class="SText holeName">1:2</span></span></div></div></div><div class="context-entry"><div class="static-info"><div class="code"><span class="var">r_bigger</span> : List(<span style="font-weight: 700;">int</span>)</div></div><div class="dynamic-info"><div class="code"><span id="result-exppath_" class="EmptyHole hole-instance hole-instance-11-0"><span class="SText holeName">1:3</span></span></div></div></div></div><div class="the-path-viewer" style="
+    position: relative;
+    top: 0;
+"><div class="titlebar">Closure above observed at </div><div class="path-summary"><div class="instance-info"><div><div class="hii-summary-inst"><span class="SDoc"><span id="hii-summarypath_" class="EmptyHole hole-instance hole-instance-11-0 path-instance selected-instance"><span class="SText holeName">1:3</span></span><span class="SEmpty"></span></span></div> = hole <span class="hole-name-normal-txt">1</span> instance <span class="inst-number-normal-txt">3</span> of <span class="inst-number-normal-txt">3</span></div></div><div class="instance-controls"><div class="prev-instance" title="Previous instance (q)">◂</div><div class="next-instance noselect no-next" title="Next instance (w)">▸</div></div></div><div class="path-view-with-path"><div class="titlebar">which is in the result</div><div class="path-area-parent"><div class="special-msg"><div>immediately</div></div></div></div></div></div></div></div></div></div></div></div>
+  
+
+</body></html>
